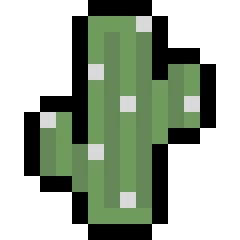
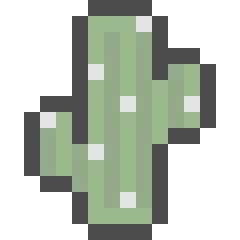
new graphics

diff --git a/game/index.html b/game/index.html
@@ -38,10 +38,6 @@ function drawCanvas(){
 function drawImage(image,pos){
 	ctx.drawImage(image,size*pos[0]+inset,size*pos[1]+inset,size-2*inset,size-2*inset);
 }
-function drawBox(pos){
-	ctx.fillStyle="black";
-	ctx.fillRect(size*pos[0],size*pos[1],size,size);
-}
 function genwaitroom(){
 	document.getElementById("rounds").disabled=false;
 	if(document.getElementById("timer").style.color!="rgb(68, 187, 255)"){
@@ -118,8 +114,8 @@ function movePlayer(deltaPos){
 			alive=0;document.getElementById("timer").style.color="f44";
 		}
 	}
-	drawBox(fruitPos);drawImage(fruit,fruitPos);
-	if(alive){drawBox(playerPos);drawImage(player,playerPos);}
+	drawImage(fruit,fruitPos);
+	if(alive){drawImage(player,playerPos);}
 }
 genwaitroom();
 player.addEventListener("load", (e) => {
